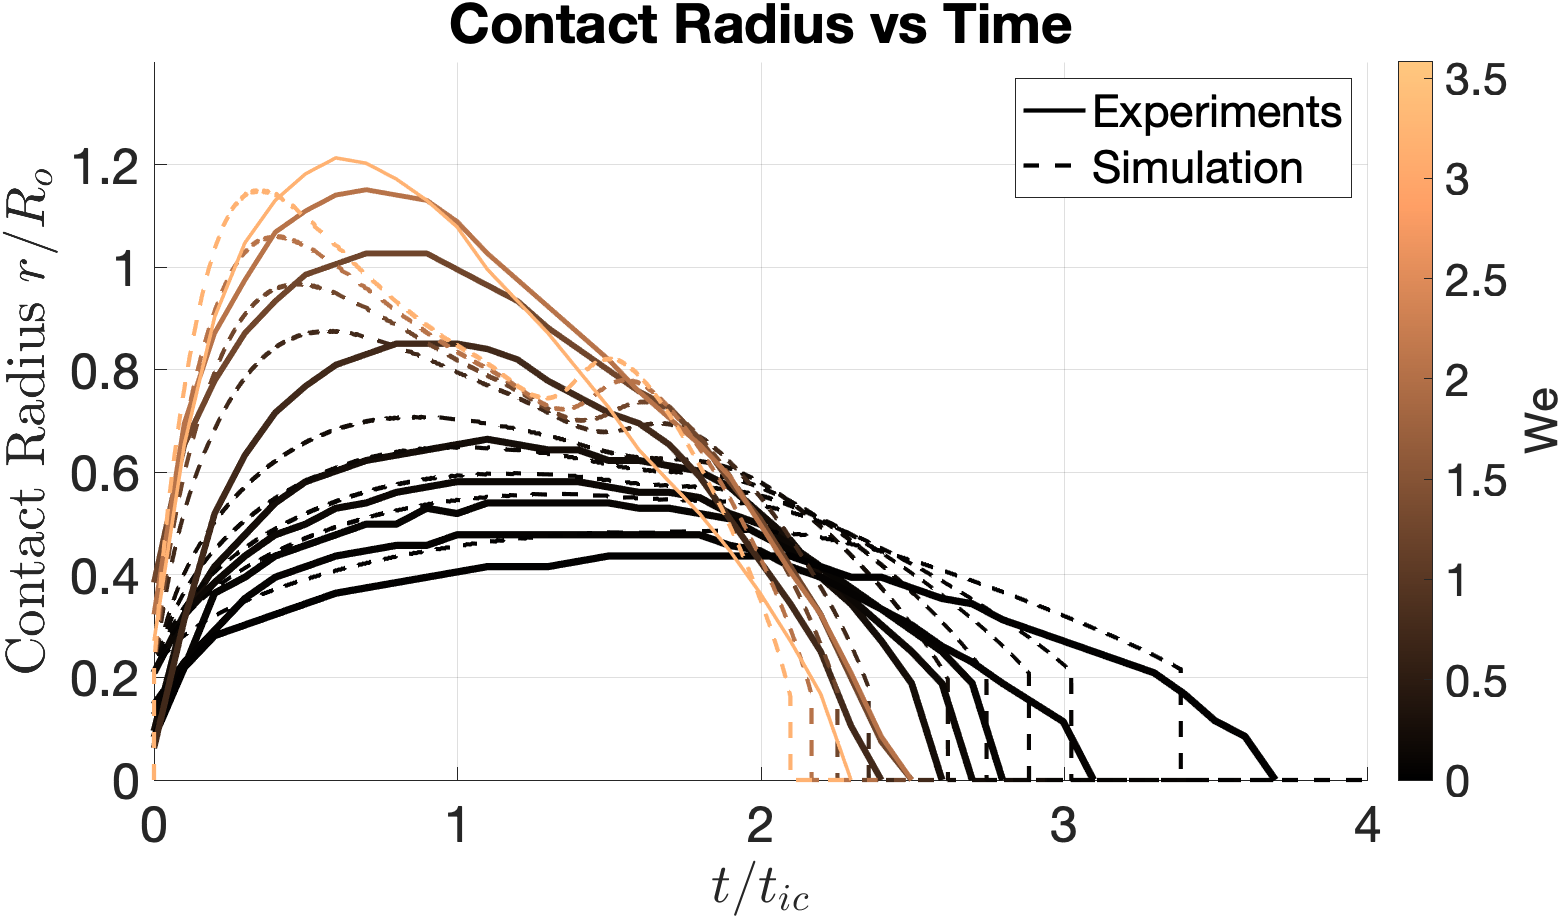
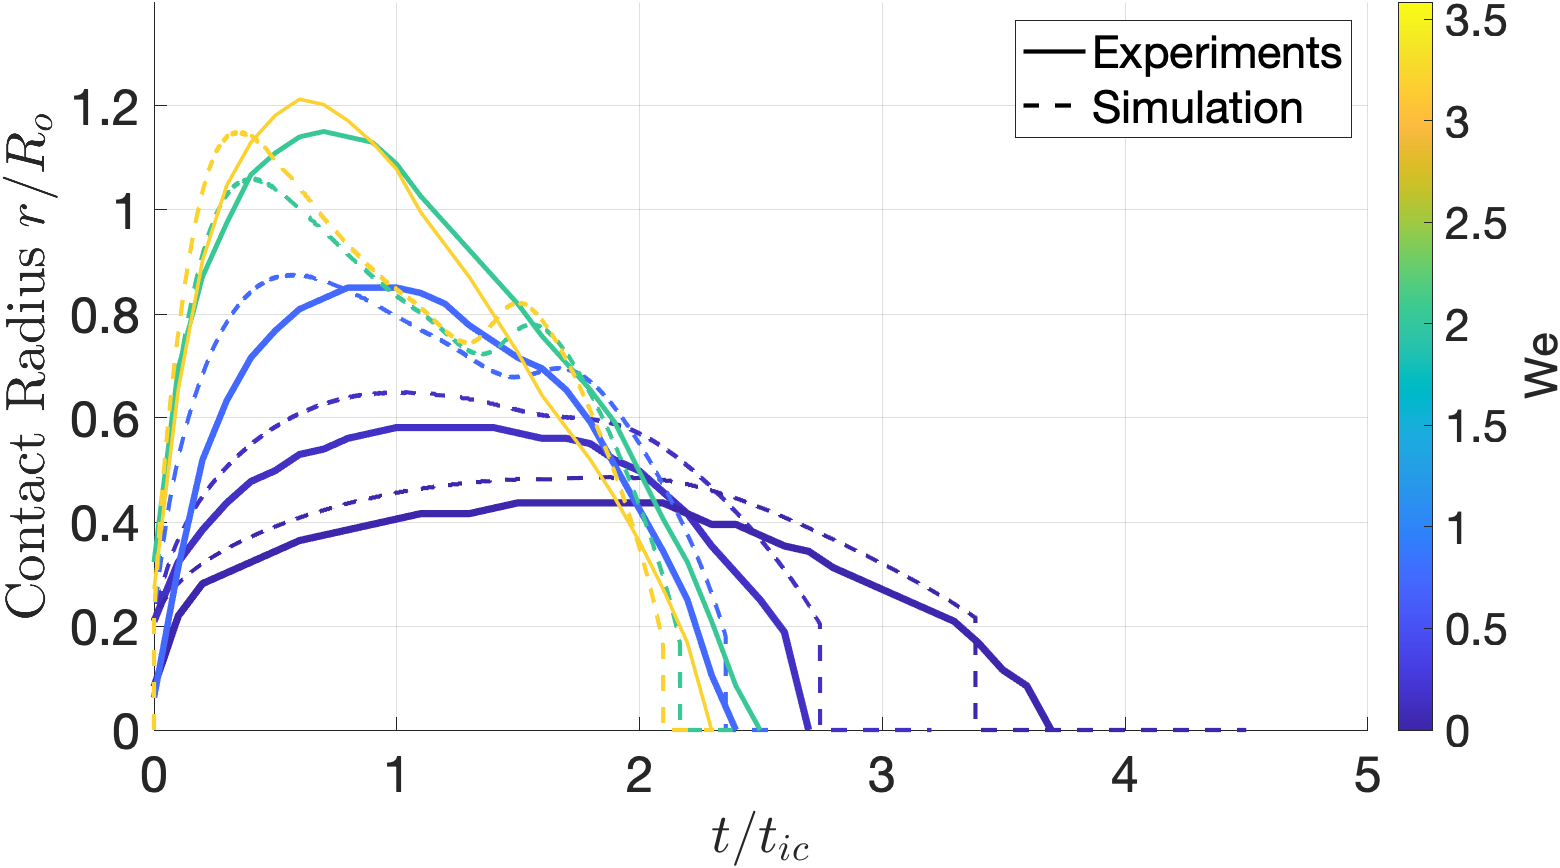
udpated colormap for contact time and max radius

diff --git a/matlab/1_code/contact_radius_max_width_plotter.m b/matlab/1_code/contact_radius_max_width_plotter.m
@@ -17,9 +17,9 @@ sheets = sheetnames(filename);
 sheets = sheets(contains(sheets, 'Bounce'));
 sheets2 = matlab.lang.makeValidName(sheets);
 data = struct();
-cmp = "copper";
-close all; cmap = copper(100*length(sheets)); ss = size(cmap, 1);
-for i = 1:numel(sheets)
+cmp = "parula";
+close all; cmap = parula(100*length(sheets)); ss = size(cmap, 1);
+for i = [2, 5, 6, 8, 9] %4:2:numel(sheets)
     tbl = readtable(filename, 'Sheet', sheets{i}, 'ReadVariableNames', true, 'HeaderLines', 1);
     
     data.(sheets2{i}) = table2struct(tbl, 'ToScalar', true);
@@ -106,7 +106,7 @@ end
 figure(1); grid on;
 xlabel('$t/t_{ic}$', 'Interpreter','latex');
 ylabel('Contact Radius $r/R_o$', 'Interpreter','latex');
-title('Contact Radius vs Time');
+%title('Contact Radius vs Time');
 %legend('Interpreter','latex');
 colormap(cmp);  % You can choose different colormaps (e.g., 'parula', 'jet', 'hot', etc.)
 cb = colorbar;  % Show the color scale
@@ -120,7 +120,7 @@ legend([h1, h2], 'Experiments', 'Simulation');
 figure(2); grid on;
 xlabel('$t/t_{ic}$', 'Interpreter', ' latex');
 ylabel('Maximum Radius ($r/R_o$)', 'Interpreter', 'latex');
-title('Maximum Radius vs Time');
+%title('Maximum Radius vs Time');
 %legend('Interpreter','latex');
 colormap(cmp);  % You can choose different colormaps (e.g., 'parula', 'jet', 'hot', etc.)
 cb = colorbar;  % Show the color scale
